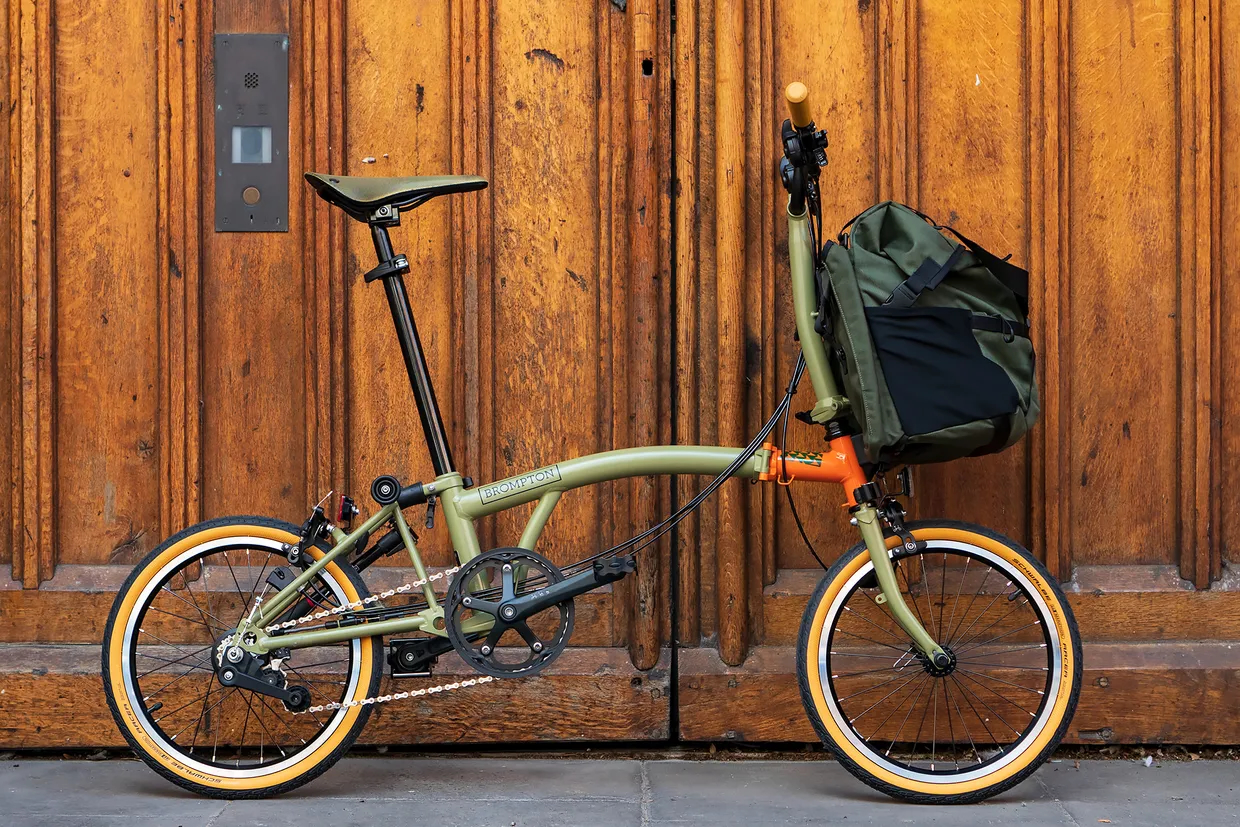
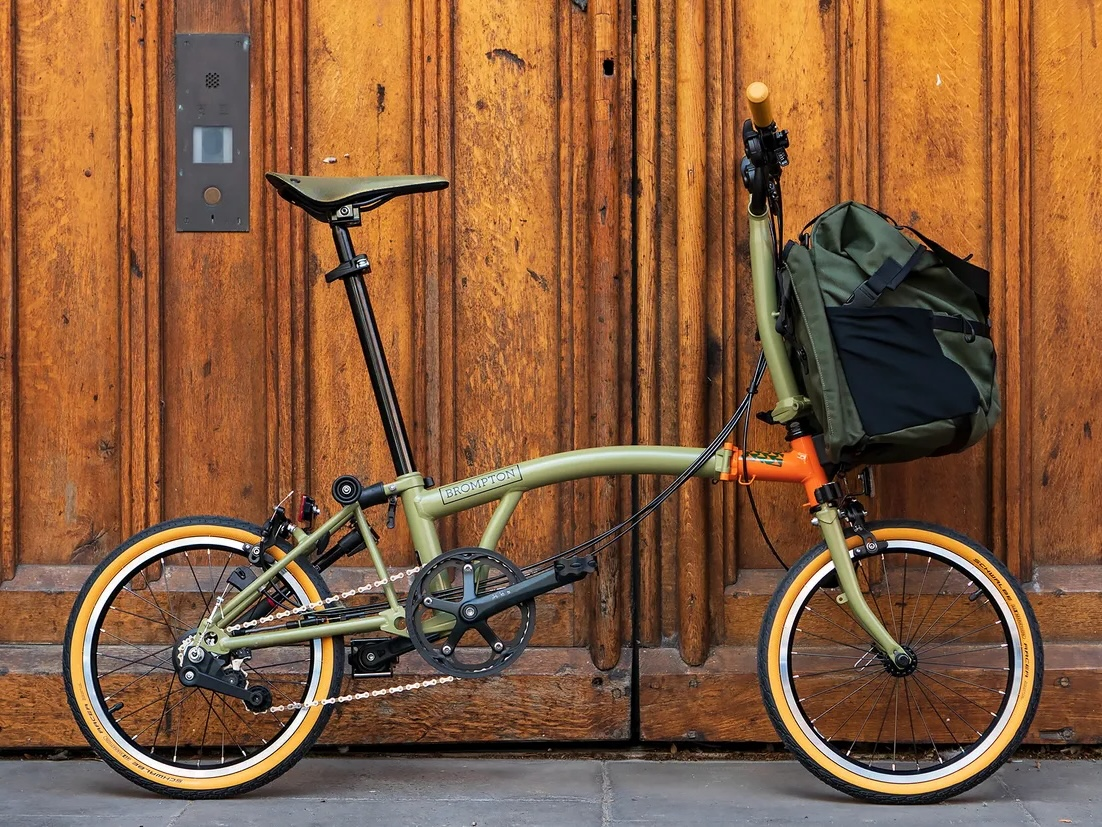
Update img

diff --git a/_projects/bike.md b/_projects/bike.md
@@ -1,9 +1,9 @@
 ---
 layout: page
-title: project 5
-description: a project with a image
-img: assets/img/1.jpg
-importance: 3
+title: Bike
+description: Where The Trail Ends
+img: assets/img/bike-01.jpg
+importance: 2
 category: fun
 ---
 

diff --git a/_projects/virtual_assistant.md b/_projects/virtual_assistant.md
@@ -3,7 +3,7 @@ layout: page
 title: Talk with Mingzhe
 description: Virtual Assistant
 img: assets/img/brain.jpg
-importance: 3
+importance: 1
 category: fun
 redirect: https://elfsong-mingzhe.hf.space
 ---

diff --git a/_projects/6_project.md b/_projects/6_project.md
@@ -3,7 +3,7 @@ layout: page
 title: project 6
 description: a project with no image
 img: assets/img/6.jpg
-importance: 4
+importance: 3
 category: fun
 ---
 
